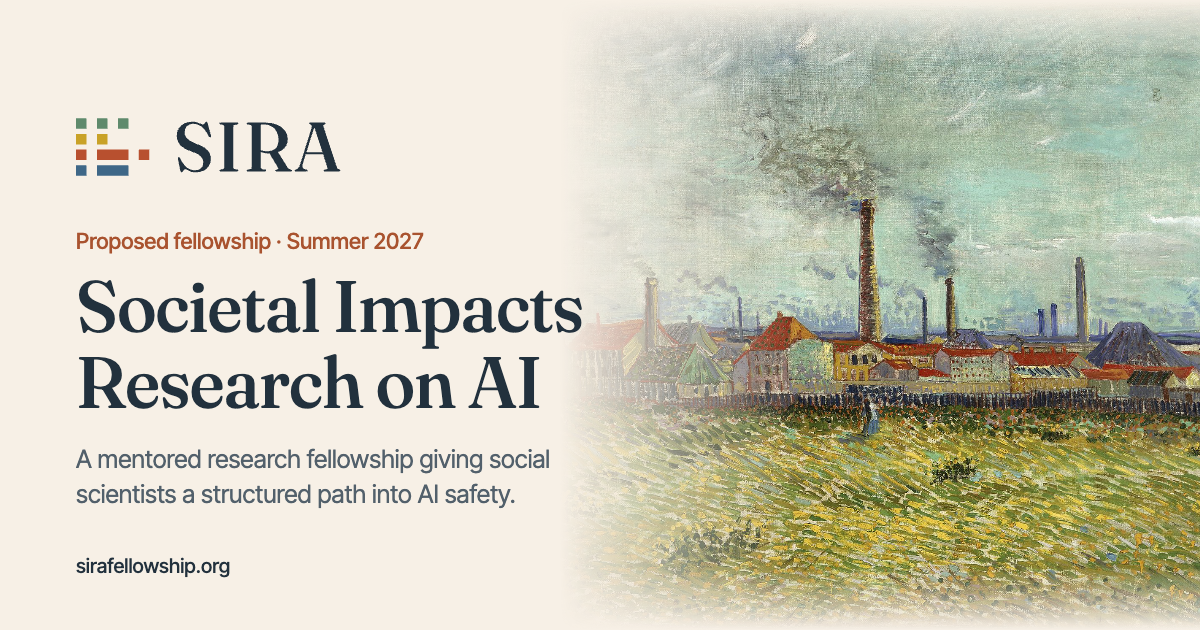
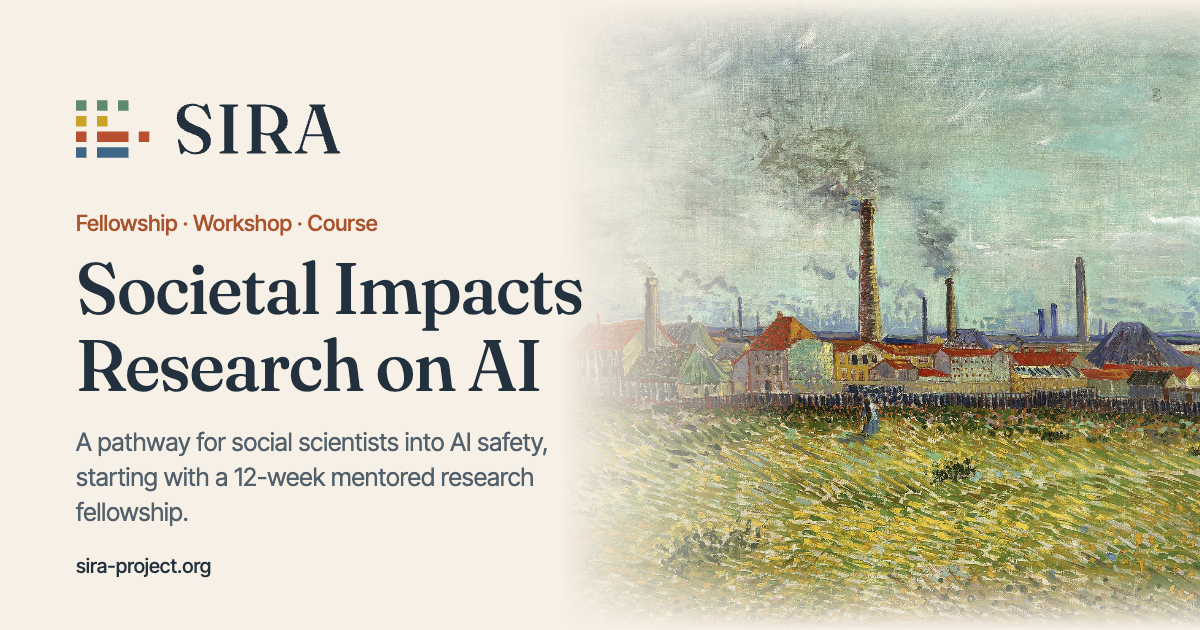
Email addresses and link preview on sira-project.org

diff --git a/index.html b/index.html
@@ -188,7 +188,7 @@
 
         <section id="get-involved" class="section wrap">
             <h2>Get involved</h2>
-            <p class="section-lede">We are looking for four kinds of collaborators. Fellows and mentors can fill out a short interest form. Host organizations and funders, please email us at <a href="mailto:contact@sirafellowship.org">contact@sirafellowship.org</a>.</p>
+            <p class="section-lede">We are looking for four kinds of collaborators. Fellows and mentors can fill out a short interest form. Host organizations and funders, please email us at <a href="mailto:contact@sira-project.org">contact@sira-project.org</a>.</p>
             <div class="cards four">
                 <div class="card">
                     <h3>Fellows</h3>
@@ -203,12 +203,12 @@
                 <div class="card">
                     <h3>Host organizations</h3>
                     <p>Fellowships or co-working spaces that could host SIRA as a research stream or standalone program.</p>
-                    <a class="text-link" href="mailto:contact@sirafellowship.org?subject=SIRA%20partnership">Email us →</a>
+                    <a class="text-link" href="mailto:contact@sira-project.org?subject=SIRA%20partnership">Email us →</a>
                 </div>
                 <div class="card">
                     <h3>Funders</h3>
                     <p>Funders interested in supporting a pilot cohort.</p>
-                    <a class="text-link" href="mailto:contact@sirafellowship.org?subject=SIRA%20funding">Email us →</a>
+                    <a class="text-link" href="mailto:contact@sira-project.org?subject=SIRA%20funding">Email us →</a>
                 </div>
             </div>
         </section>
@@ -281,7 +281,7 @@
         <div class="wrap footer-grid">
             <div class="footer-brand">
                 <a class="footer-logo" href="#top"><svg class="mark" viewBox="0 0 140.0 110.0" aria-hidden="true" focusable="false"><path class="m0" d="M0.000 0.000h20.000v20.000h-20.000ZM40.000 0.000h20.000v20.000h-20.000ZM80.000 0.000h20.000v20.000h-20.000Z"/><path class="m1" d="M0.000 30.000h20.000v20.000h-20.000ZM40.000 30.000h20.000v20.000h-20.000Z"/><path class="m2" d="M0.000 60.000h20.000v20.000h-20.000ZM40.000 60.000h60.000v20.000h-60.000ZM120.000 60.000h20.000v20.000h-20.000Z"/><path class="m3" d="M0.000 90.000h20.000v20.000h-20.000ZM40.000 90.000h60.000v20.000h-60.000Z"/></svg><span>SIRA</span></a>
-                <p><a href="mailto:contact@sirafellowship.org">contact@sirafellowship.org</a></p>
+                <p><a href="mailto:contact@sira-project.org">contact@sira-project.org</a></p>
                 <p class="footer-social"><a href="https://www.linkedin.com/company/societal-impacts-research-on-ai/">LinkedIn</a></p>
             </div>
             <nav class="footer-col" aria-label="Projects">
@@ -299,7 +299,7 @@
                     <li><a href="about/">About us</a></li>
                     <li><a href="#get-involved">Get involved</a></li>
                     <li><a href="https://www.lesswrong.com/posts/MgD6mDeGzydo7Xgnb/societal-impacts-research-on-ai-sira">Proposal</a></li>
-                    <li><a href="mailto:contact@sirafellowship.org">Contact</a></li>
+                    <li><a href="mailto:contact@sira-project.org">Contact</a></li>
                 </ul>
             </nav>
             <p class="footer-legal">© 2026 SIRA (Societal Impacts Research on AI). Header art: Vincent van Gogh, <a href="https://www.slam.org/collection/objects/3652/">Factories at Asnières, Seen from the Quai de Clichy</a> (1887), Saint Louis Art Museum, public domain.</p>

diff --git a/workshop/index.html b/workshop/index.html
@@ -127,7 +127,7 @@
                 </details>
                 <details>
                     <summary>Know someone who would be a strong fit?</summary>
-                    <p>Email us at <a href="mailto:contact@sirafellowship.org?subject=SIRA%20workshop%20referral">contact@sirafellowship.org</a> with their name and why you think they’d be a good fit.</p>
+                    <p>Email us at <a href="mailto:contact@sira-project.org?subject=SIRA%20workshop%20referral">contact@sira-project.org</a> with their name and why you think they’d be a good fit.</p>
                 </details>
             </div>
         </section>
@@ -147,7 +147,7 @@
         <div class="wrap footer-grid">
             <div class="footer-brand">
                 <a class="footer-logo" href="../"><svg class="mark" viewBox="0 0 140.0 110.0" aria-hidden="true" focusable="false"><path class="m0" d="M0.000 0.000h20.000v20.000h-20.000ZM40.000 0.000h20.000v20.000h-20.000ZM80.000 0.000h20.000v20.000h-20.000Z"/><path class="m1" d="M0.000 30.000h20.000v20.000h-20.000ZM40.000 30.000h20.000v20.000h-20.000Z"/><path class="m2" d="M0.000 60.000h20.000v20.000h-20.000ZM40.000 60.000h60.000v20.000h-60.000ZM120.000 60.000h20.000v20.000h-20.000Z"/><path class="m3" d="M0.000 90.000h20.000v20.000h-20.000ZM40.000 90.000h60.000v20.000h-60.000Z"/></svg><span>SIRA</span></a>
-                <p><a href="mailto:contact@sirafellowship.org">contact@sirafellowship.org</a></p>
+                <p><a href="mailto:contact@sira-project.org">contact@sira-project.org</a></p>
                 <p class="footer-social"><a href="https://www.linkedin.com/company/societal-impacts-research-on-ai/">LinkedIn</a></p>
             </div>
             <nav class="footer-col" aria-label="Projects">
@@ -165,7 +165,7 @@
                     <li><a href="../about/">About us</a></li>
                     <li><a href="../#get-involved">Get involved</a></li>
                     <li><a href="https://www.lesswrong.com/posts/MgD6mDeGzydo7Xgnb/societal-impacts-research-on-ai-sira">Proposal</a></li>
-                    <li><a href="mailto:contact@sirafellowship.org">Contact</a></li>
+                    <li><a href="mailto:contact@sira-project.org">Contact</a></li>
                 </ul>
             </nav>
             <p class="footer-legal">© 2026 SIRA (Societal Impacts Research on AI). Header art: Vincent van Gogh, <a href="https://www.slam.org/collection/objects/3652/">Factories at Asnières, Seen from the Quai de Clichy</a> (1887), Saint Louis Art Museum, public domain.</p>

diff --git a/about/index.html b/about/index.html
@@ -104,7 +104,7 @@
                                 <p class="bio-links">
                                     <a href="https://emiliobarkett.github.io/">Website</a>
                                     <a href="https://www.linkedin.com/in/emiliobarkett/">LinkedIn</a>
-                                    <a href="mailto:emilio@sirafellowship.org">Email</a>
+                                    <a href="mailto:emilio@sira-project.org">Email</a>
                                 </p>
                             </div>
                         </div>
@@ -129,7 +129,7 @@
         <div class="wrap footer-grid">
             <div class="footer-brand">
                 <a class="footer-logo" href="../"><svg class="mark" viewBox="0 0 140.0 110.0" aria-hidden="true" focusable="false"><path class="m0" d="M0.000 0.000h20.000v20.000h-20.000ZM40.000 0.000h20.000v20.000h-20.000ZM80.000 0.000h20.000v20.000h-20.000Z"/><path class="m1" d="M0.000 30.000h20.000v20.000h-20.000ZM40.000 30.000h20.000v20.000h-20.000Z"/><path class="m2" d="M0.000 60.000h20.000v20.000h-20.000ZM40.000 60.000h60.000v20.000h-60.000ZM120.000 60.000h20.000v20.000h-20.000Z"/><path class="m3" d="M0.000 90.000h20.000v20.000h-20.000ZM40.000 90.000h60.000v20.000h-60.000Z"/></svg><span>SIRA</span></a>
-                <p><a href="mailto:contact@sirafellowship.org">contact@sirafellowship.org</a></p>
+                <p><a href="mailto:contact@sira-project.org">contact@sira-project.org</a></p>
                 <p class="footer-social"><a href="https://www.linkedin.com/company/societal-impacts-research-on-ai/">LinkedIn</a></p>
             </div>
             <nav class="footer-col" aria-label="Projects">
@@ -147,7 +147,7 @@
                     <li><a href="../about/">About us</a></li>
                     <li><a href="../#get-involved">Get involved</a></li>
                     <li><a href="https://www.lesswrong.com/posts/MgD6mDeGzydo7Xgnb/societal-impacts-research-on-ai-sira">Proposal</a></li>
-                    <li><a href="mailto:contact@sirafellowship.org">Contact</a></li>
+                    <li><a href="mailto:contact@sira-project.org">Contact</a></li>
                 </ul>
             </nav>
             <p class="footer-legal">© 2026 SIRA (Societal Impacts Research on AI). Header art: Vincent van Gogh, <a href="https://www.slam.org/collection/objects/3652/">Factories at Asnières, Seen from the Quai de Clichy</a> (1887), Saint Louis Art Museum, public domain.</p>

diff --git a/course/index.html b/course/index.html
@@ -71,7 +71,7 @@
         <section class="wrap cta-wrap">
             <div class="cta-strip">
                 <p><strong>In development</strong> <span>Want to hear when the course is ready?</span></p>
-                <a class="cta-button" href="mailto:contact@sirafellowship.org?subject=SIRA%20online%20course">Get updates</a>
+                <a class="cta-button" href="mailto:contact@sira-project.org?subject=SIRA%20online%20course">Get updates</a>
             </div>
         </section>
     </main>
@@ -83,7 +83,7 @@
         <div class="wrap footer-grid">
             <div class="footer-brand">
                 <a class="footer-logo" href="../"><svg class="mark" viewBox="0 0 140.0 110.0" aria-hidden="true" focusable="false"><path class="m0" d="M0.000 0.000h20.000v20.000h-20.000ZM40.000 0.000h20.000v20.000h-20.000ZM80.000 0.000h20.000v20.000h-20.000Z"/><path class="m1" d="M0.000 30.000h20.000v20.000h-20.000ZM40.000 30.000h20.000v20.000h-20.000Z"/><path class="m2" d="M0.000 60.000h20.000v20.000h-20.000ZM40.000 60.000h60.000v20.000h-60.000ZM120.000 60.000h20.000v20.000h-20.000Z"/><path class="m3" d="M0.000 90.000h20.000v20.000h-20.000ZM40.000 90.000h60.000v20.000h-60.000Z"/></svg><span>SIRA</span></a>
-                <p><a href="mailto:contact@sirafellowship.org">contact@sirafellowship.org</a></p>
+                <p><a href="mailto:contact@sira-project.org">contact@sira-project.org</a></p>
                 <p class="footer-social"><a href="https://www.linkedin.com/company/societal-impacts-research-on-ai/">LinkedIn</a></p>
             </div>
             <nav class="footer-col" aria-label="Projects">
@@ -101,7 +101,7 @@
                     <li><a href="../about/">About us</a></li>
                     <li><a href="../#get-involved">Get involved</a></li>
                     <li><a href="https://www.lesswrong.com/posts/MgD6mDeGzydo7Xgnb/societal-impacts-research-on-ai-sira">Proposal</a></li>
-                    <li><a href="mailto:contact@sirafellowship.org">Contact</a></li>
+                    <li><a href="mailto:contact@sira-project.org">Contact</a></li>
                 </ul>
             </nav>
             <p class="footer-legal">© 2026 SIRA (Societal Impacts Research on AI). Header art: Vincent van Gogh, <a href="https://www.slam.org/collection/objects/3652/">Factories at Asnières, Seen from the Quai de Clichy</a> (1887), Saint Louis Art Museum, public domain.</p>

diff --git a/fellowship/index.html b/fellowship/index.html
@@ -145,7 +145,7 @@
         <div class="wrap footer-grid">
             <div class="footer-brand">
                 <a class="footer-logo" href="../"><svg class="mark" viewBox="0 0 140.0 110.0" aria-hidden="true" focusable="false"><path class="m0" d="M0.000 0.000h20.000v20.000h-20.000ZM40.000 0.000h20.000v20.000h-20.000ZM80.000 0.000h20.000v20.000h-20.000Z"/><path class="m1" d="M0.000 30.000h20.000v20.000h-20.000ZM40.000 30.000h20.000v20.000h-20.000Z"/><path class="m2" d="M0.000 60.000h20.000v20.000h-20.000ZM40.000 60.000h60.000v20.000h-60.000ZM120.000 60.000h20.000v20.000h-20.000Z"/><path class="m3" d="M0.000 90.000h20.000v20.000h-20.000ZM40.000 90.000h60.000v20.000h-60.000Z"/></svg><span>SIRA</span></a>
-                <p><a href="mailto:contact@sirafellowship.org">contact@sirafellowship.org</a></p>
+                <p><a href="mailto:contact@sira-project.org">contact@sira-project.org</a></p>
                 <p class="footer-social"><a href="https://www.linkedin.com/company/societal-impacts-research-on-ai/">LinkedIn</a></p>
             </div>
             <nav class="footer-col" aria-label="Projects">
@@ -163,7 +163,7 @@
                     <li><a href="../about/">About us</a></li>
                     <li><a href="../#get-involved">Get involved</a></li>
                     <li><a href="https://www.lesswrong.com/posts/MgD6mDeGzydo7Xgnb/societal-impacts-research-on-ai-sira">Proposal</a></li>
-                    <li><a href="mailto:contact@sirafellowship.org">Contact</a></li>
+                    <li><a href="mailto:contact@sira-project.org">Contact</a></li>
                 </ul>
             </nav>
             <p class="footer-legal">© 2026 SIRA (Societal Impacts Research on AI). Header art: Vincent van Gogh, <a href="https://www.slam.org/collection/objects/3652/">Factories at Asnières, Seen from the Quai de Clichy</a> (1887), Saint Louis Art Museum, public domain.</p>

diff --git a/brand/email-signature.html b/brand/email-signature.html
@@ -17,7 +17,7 @@
   <ol>
     <li>Select everything inside the white box below (drag from “Warmest regards” to the logo) and copy (⌘C).</li>
     <li>In Gmail: Settings → See all settings → General → Signature → Create new, name it “SIRA”.</li>
-    <li>Paste (⌘V) into the signature box, then set it as the default for emilio@sirafellowship.org (the “For new emails use” and “On reply/forward use” menus) and click Save Changes at the bottom.</li>
+    <li>Paste (⌘V) into the signature box, then set it as the default for emilio@sira-project.org (the “For new emails use” and “On reply/forward use” menus) and click Save Changes at the bottom.</li>
   </ol>
 </div>
 
@@ -30,7 +30,7 @@
 <div><br></div>
 <div><b><a href="https://emiliobarkett.github.io" style="color:#222222;text-decoration:none;">Emilio Barkett</a></b></div>
 <div>Founder, SIRA</div>
-<div><a href="https://sira-project.org" style="color:#a9532f;text-decoration:none;">sirafellowship.org</a> | <a href="mailto:emilio@sirafellowship.org" style="color:#a9532f;text-decoration:none;">emilio@sirafellowship.org</a></div>
+<div><a href="https://sira-project.org" style="color:#a9532f;text-decoration:none;">sira-project.org</a> | <a href="mailto:emilio@sira-project.org" style="color:#a9532f;text-decoration:none;">emilio@sira-project.org</a></div>
 <div><br></div>
 <div><a href="https://sira-project.org"><img src="https://sira-project.org/brand/png/sira-logo-horizontal-soft.png" width="96" alt="SIRA" style="border:0;width:96px;height:auto;"></a></div>
 </div>

diff --git a/tools/contact_sheet.py b/tools/contact_sheet.py
@@ -85,7 +85,7 @@ def mockups():
     painting = ROOT / "images" / "factories-at-asnieres-1000.jpg"
     cards = [
         ("Browser tab", f'''<div class="browser"><div class="tabs"><div class="tab on">{tile(16)}<span>SIRA · Societal Impacts Research on AI</span></div>
-<div class="tab">Inbox</div></div><div class="url">sirafellowship.org</div>
+<div class="tab">Inbox</div></div><div class="url">sira-project.org</div>
 <div class="page"><div class="pghdr">{logo(26)}<span class="nav">About · Program · <b>Get involved</b></span></div></div></div>'''),
         ("Social profiles: circle and square crops", f'''<div class="social">
 <div class="prof"><div class="banner" style="background:{INK}"></div><div class="av circle">{tile(84, small=False)}</div><div class="pinfo"><b>SIRA</b><span>Societal Impacts Research on AI</span></div></div>
@@ -95,13 +95,13 @@ def mockups():
 <div class="sl-rule"></div><div class="sl-sub">A 10–12 week mentored research fellowship · Summer 2027</div></div>'''),
         ("Poster", f'''<div class="poster">{mark(30, "soft-dark")}<div class="ps-kick">Proposed fellowship · Summer 2027</div>
 <div class="ps-title">Societal Impacts Research on AI</div><div class="ps-img" style="background-image:url('file://{painting}')"></div>
-<div class="ps-foot">Express interest at <b>sirafellowship.org</b></div></div>'''),
+<div class="ps-foot">Express interest at <b>sira-project.org</b></div></div>'''),
         ("Name badge", f'''<div class="badge"><div class="bd-top">{logo(26, "dark")}</div><div class="bd-name">Emilio Barkett</div><div class="bd-role">Organizer</div><div class="bd-strip"></div></div>'''),
         ("Stickers", f'''<div class="stickers"><div class="stk r1">{tile(120, small=False)}</div><div class="stk r2">{tile(120, "ink", False)}</div><div class="stk ci">{tile(120, "cream", False)}</div></div>'''),
         ("Email signature", f'''<div class="mail"><p>Thanks for your interest. I'd love to set up a call next week.</p><p>Best,</p>
 <div class="sig"><b>Emilio Barkett</b><div class="sg-role">Organizer, SIRA</div><div class="sg-logo">{logo(22, kind="full")}</div>
-<div class="sg-links">sirafellowship.org · contact@sirafellowship.org</div></div></div>'''),
-        ("Link preview", f'''<div class="slack"><b>Emilio</b> <span class="t">10:42 AM</span><div>Here's the fellowship proposal: <a>https://sirafellowship.org</a></div>
+<div class="sg-links">sira-project.org · contact@sira-project.org</div></div></div>'''),
+        ("Link preview", f'''<div class="slack"><b>Emilio</b> <span class="t">10:42 AM</span><div>Here's the fellowship proposal: <a>https://sira-project.org</a></div>
 <div class="unfurl"><div class="uf-site">{tile(16)} SIRA</div><div class="uf-title">Societal Impacts Research on AI (SIRA)</div>
 <img src="file://{PNG}/og-image.png" style="width:340px;display:block;margin-top:8px"></div></div>'''),
     ]

diff --git a/README.md b/README.md
@@ -2,7 +2,7 @@
 
 Website for SIRA, a proposed mentored research fellowship that gives social scientists a structured path into AI safety.
 
-Live at https://sirafellowship.org
+Live at https://sira-project.org
 
 The site is plain HTML and CSS (`index.html`, `style.css`) with no build step. GitHub Pages serves it from the `main` branch; `CNAME` sets the custom domain.
 
